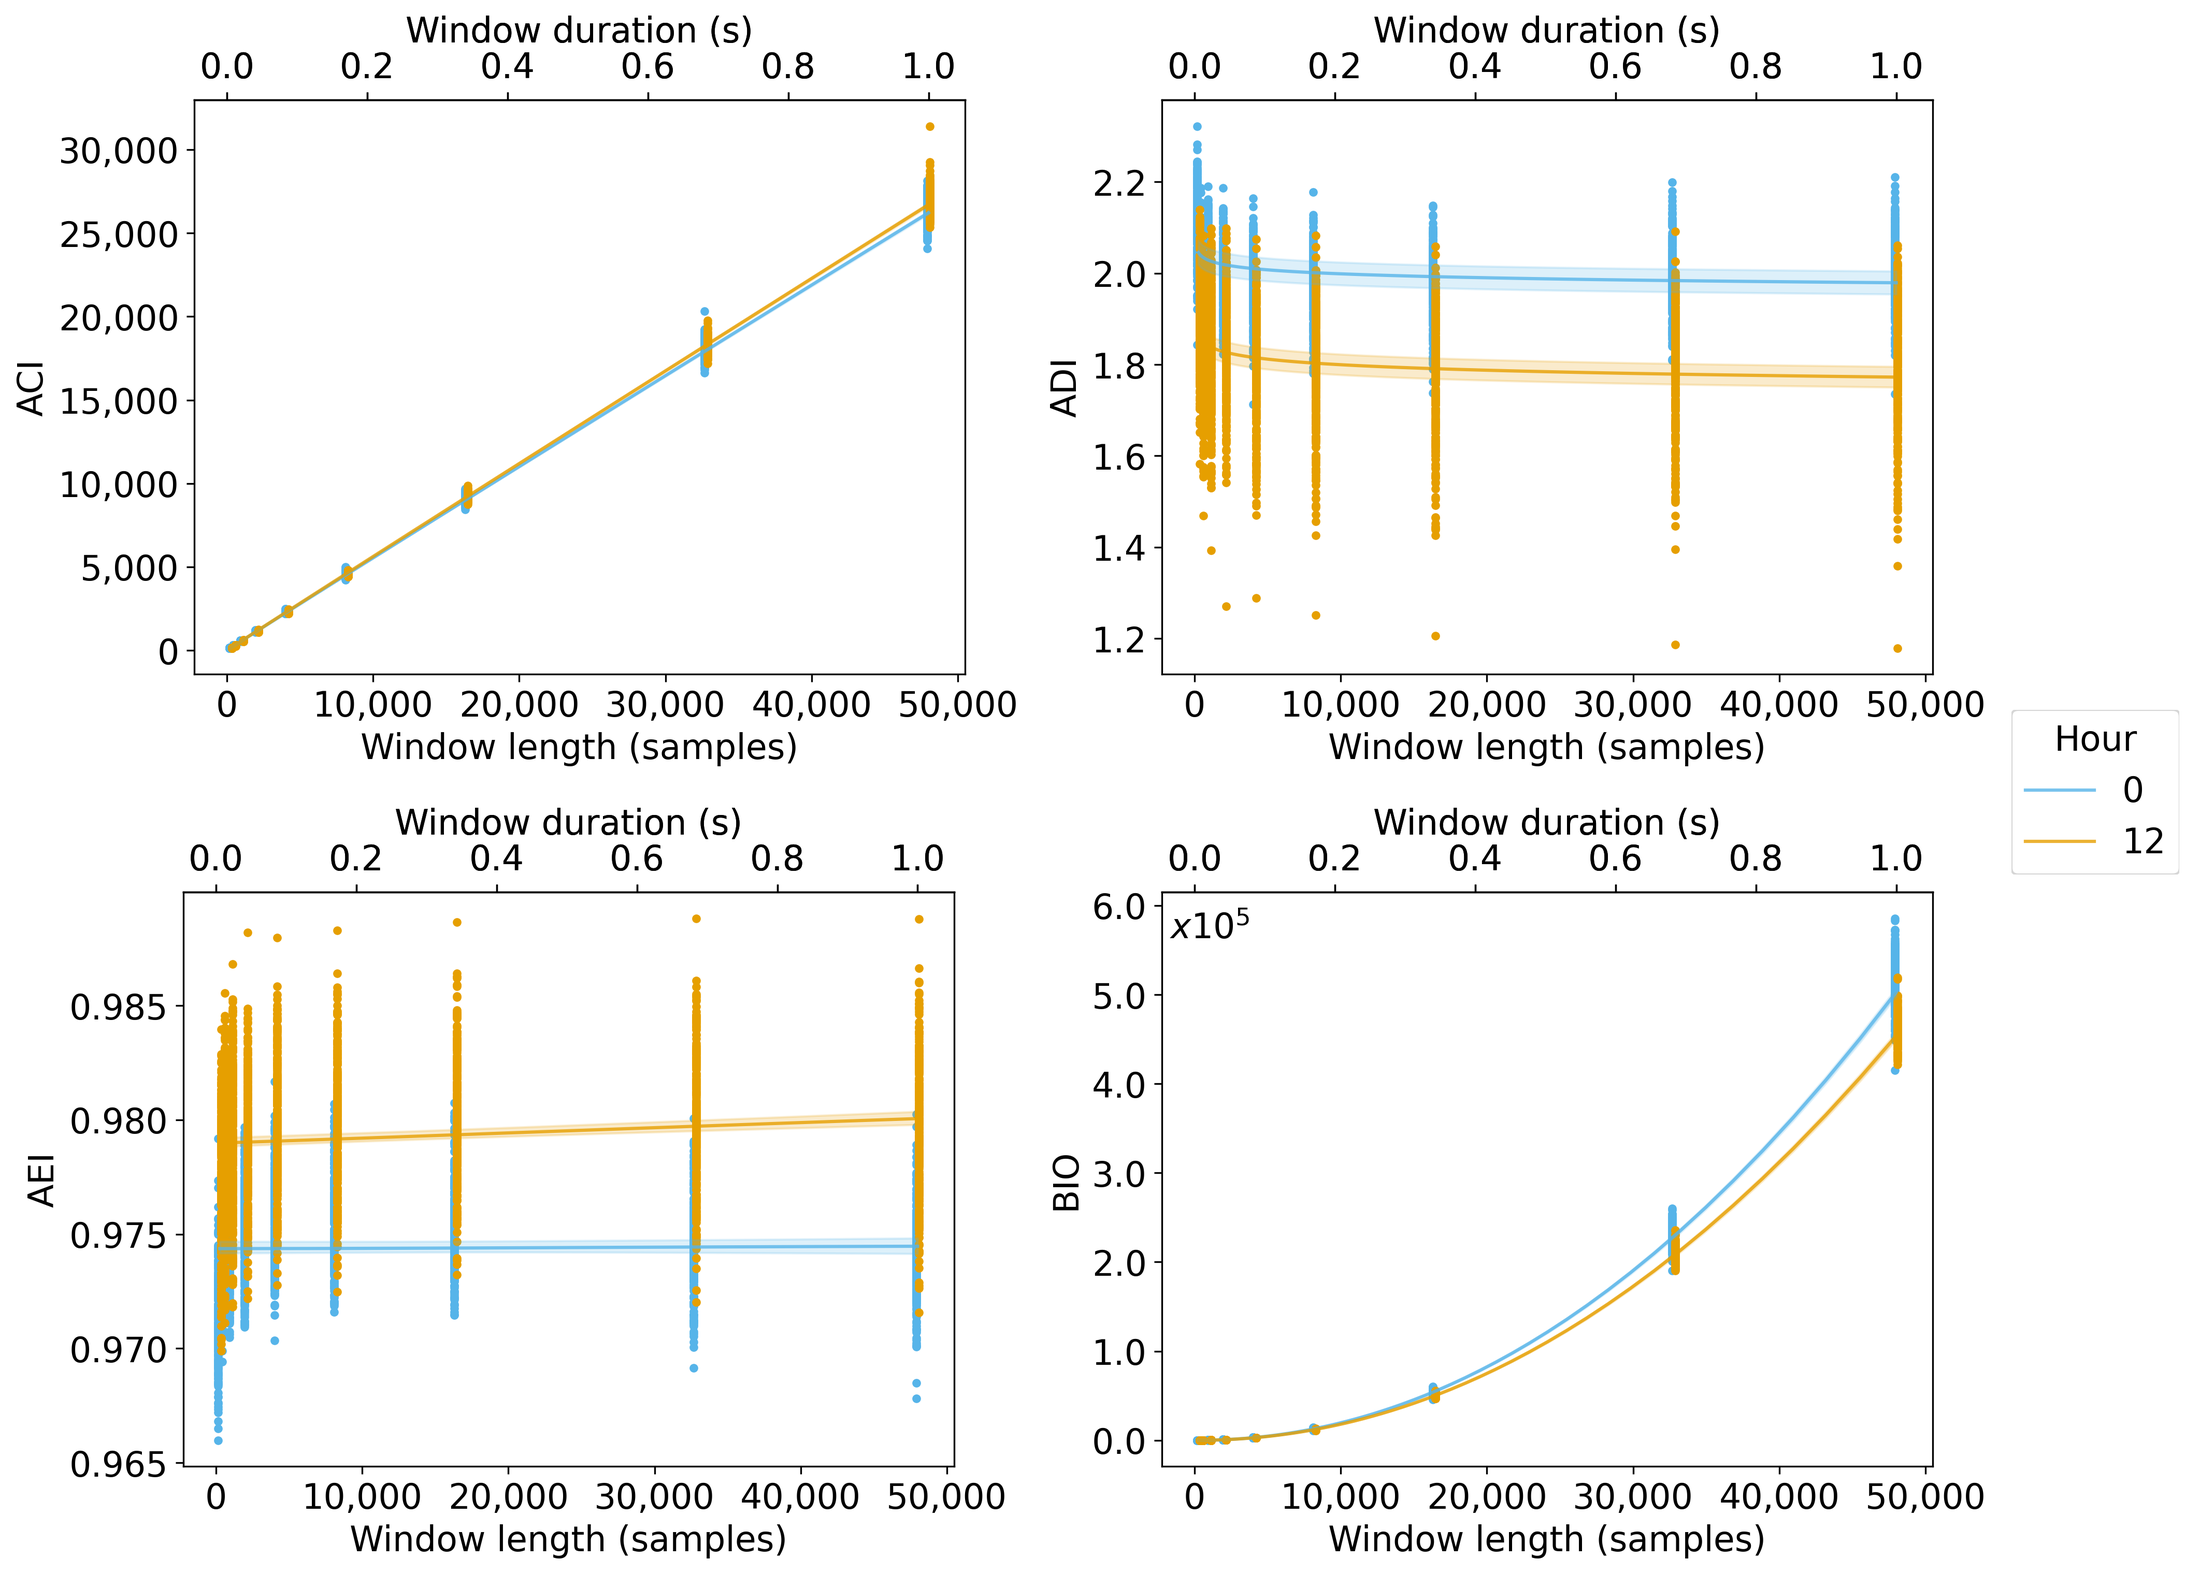
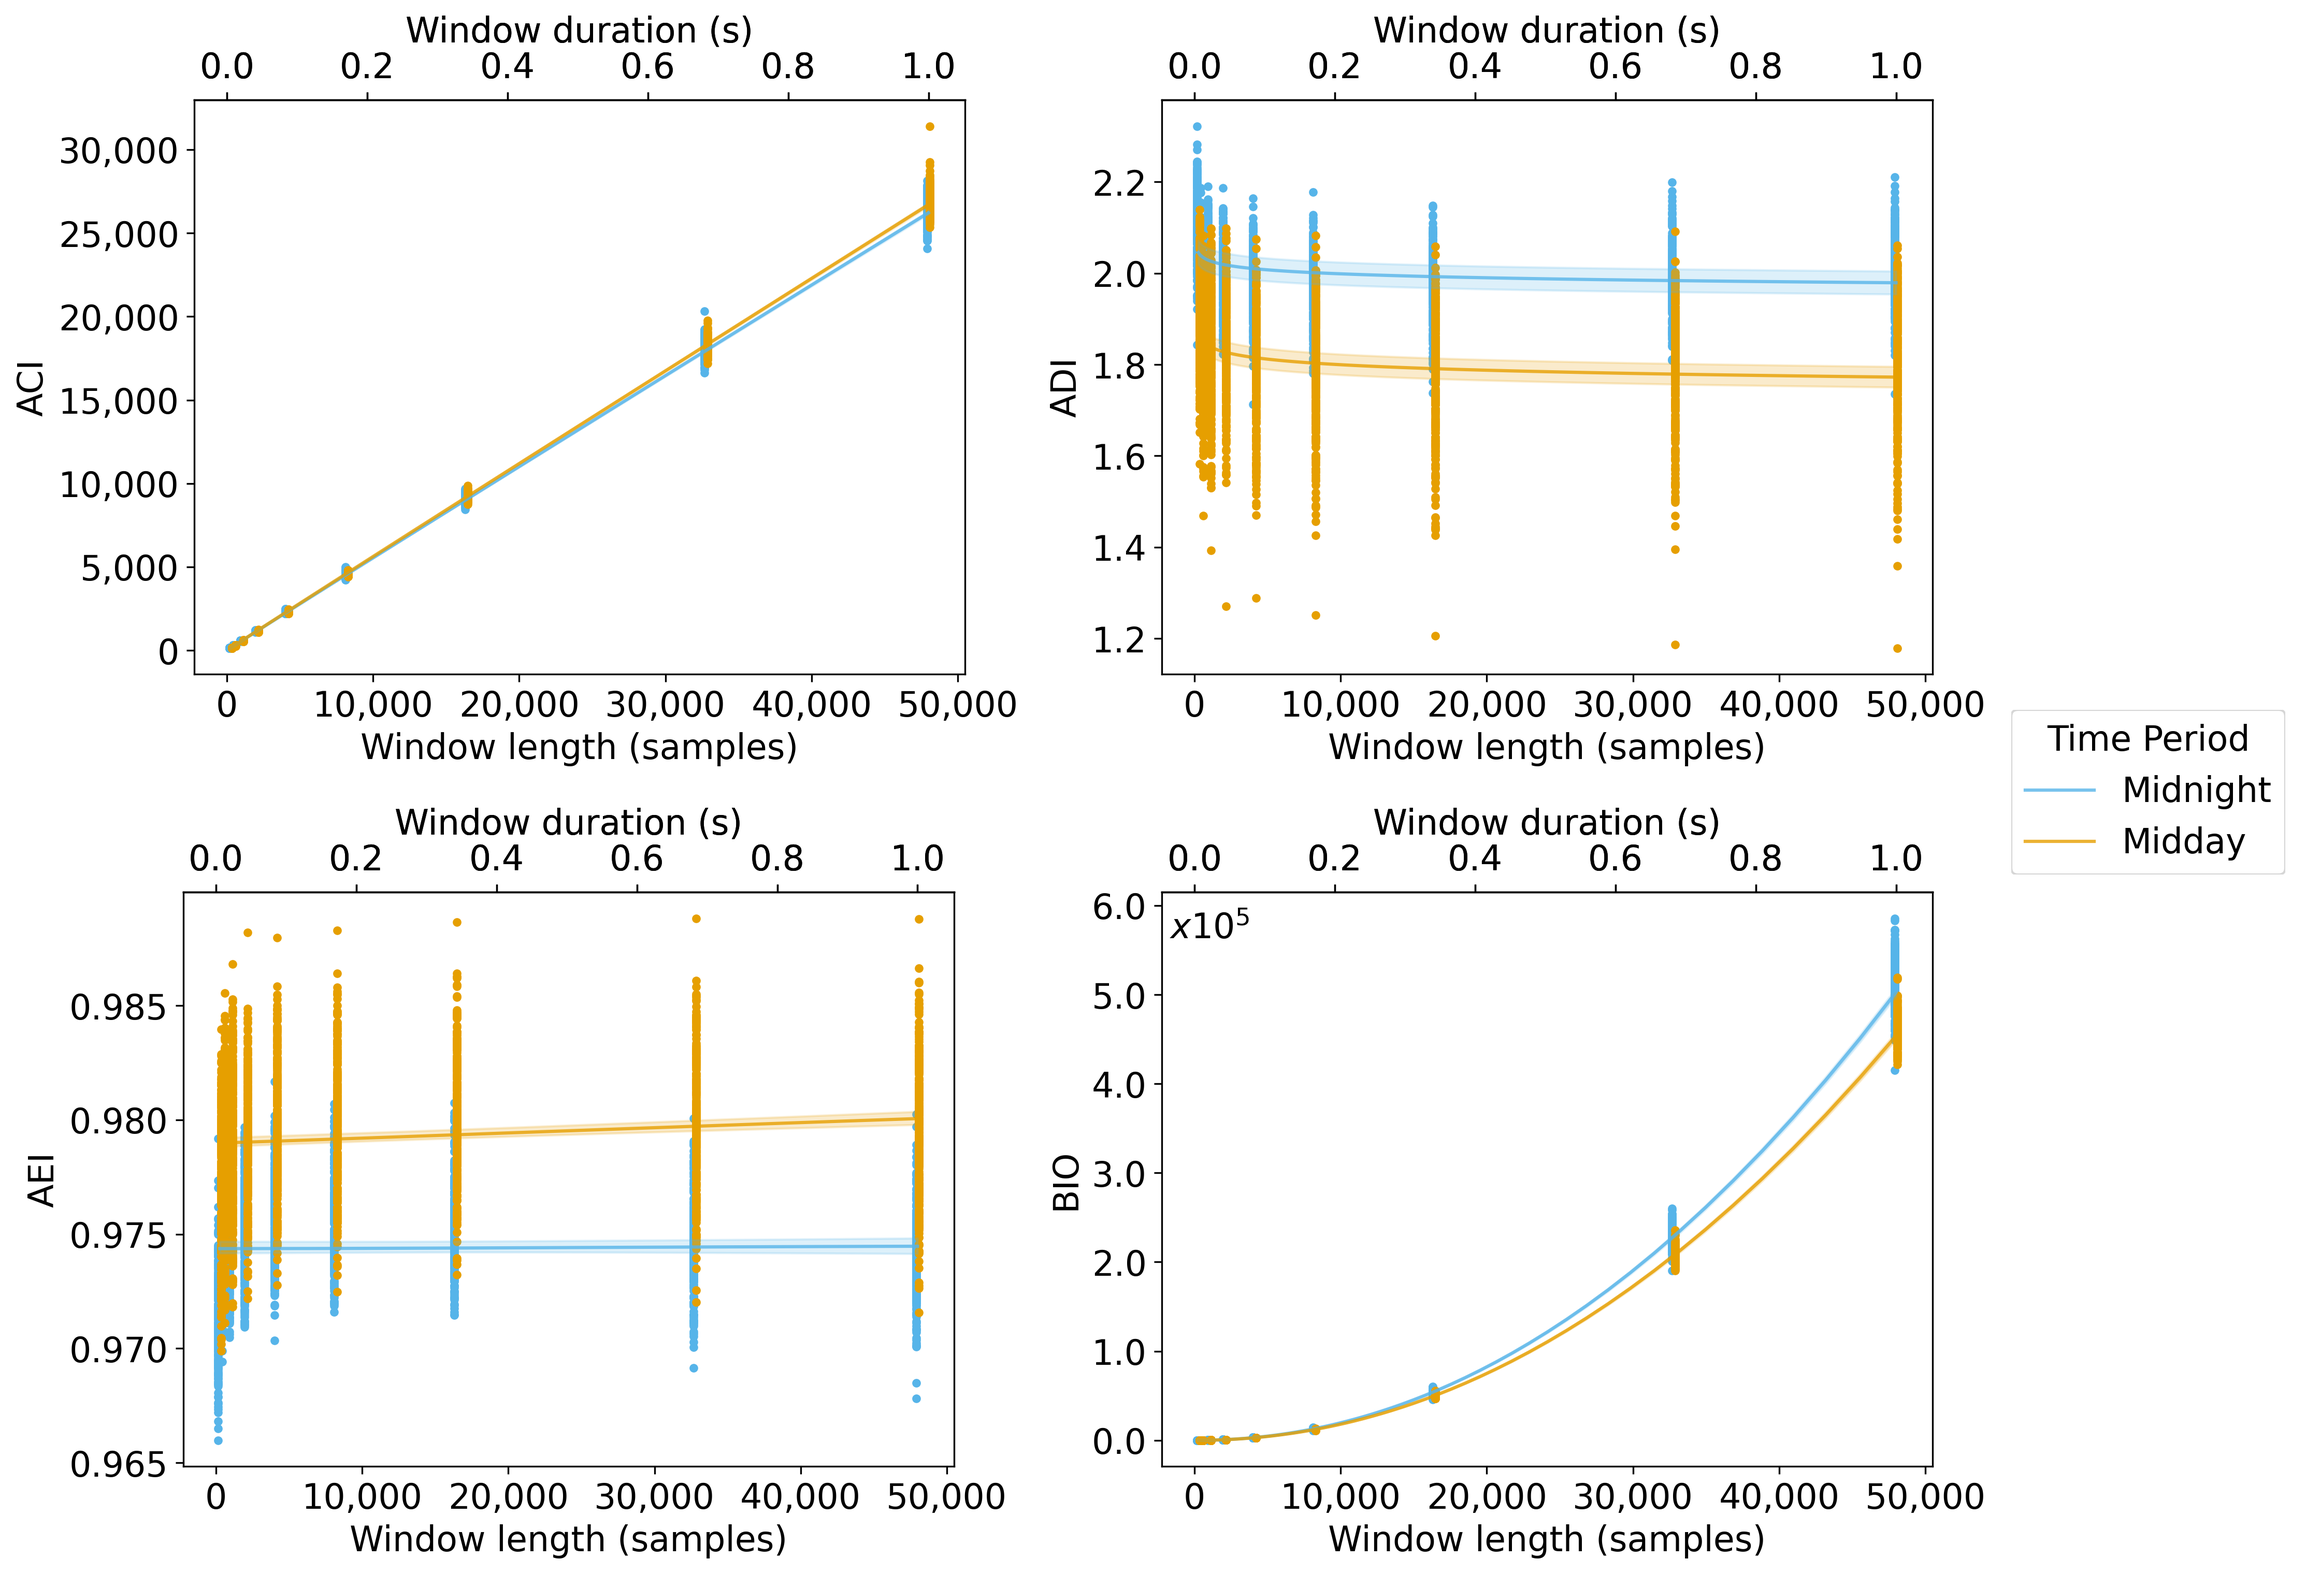
Legend text change

diff --git a/tools/plot_combiner.py b/tools/plot_combiner.py
@@ -24,6 +24,7 @@ class RenamingUnpickler(pickle.Unpickler):
 
 class PlotCombiner:
     '''graph combining functions'''
+    time_period_conversion = {'0': 'Midnight', '12': 'Midday'}
     def __init__(self) -> None:
         self.fig_bufs = []
 
@@ -33,6 +34,7 @@ class PlotCombiner:
     def __exit__(self, exc_type, exc_value, traceback):
         for buf in self.fig_bufs:
             buf.close()
+
 
     @classmethod
     def fig_changer(cls, fig, filename):
@@ -80,6 +82,12 @@ class PlotCombiner:
     @classmethod
     def export_legend(cls, legend, buf, fontsize=16):
         cls.update_lgd_font_size(legend, fontsize)
+        ttl = legend.get_title()
+        if ttl.get_text() == 'Hour':
+            ttl.set_text('Time Period')
+            for text in legend.texts:
+                text.set_text(cls.time_period_conversion[text.get_text()])
+
         fig  = legend.figure
         fig.canvas.draw()
         bbox  = legend.get_window_extent().transformed(fig.dpi_scale_trans.inverted())
